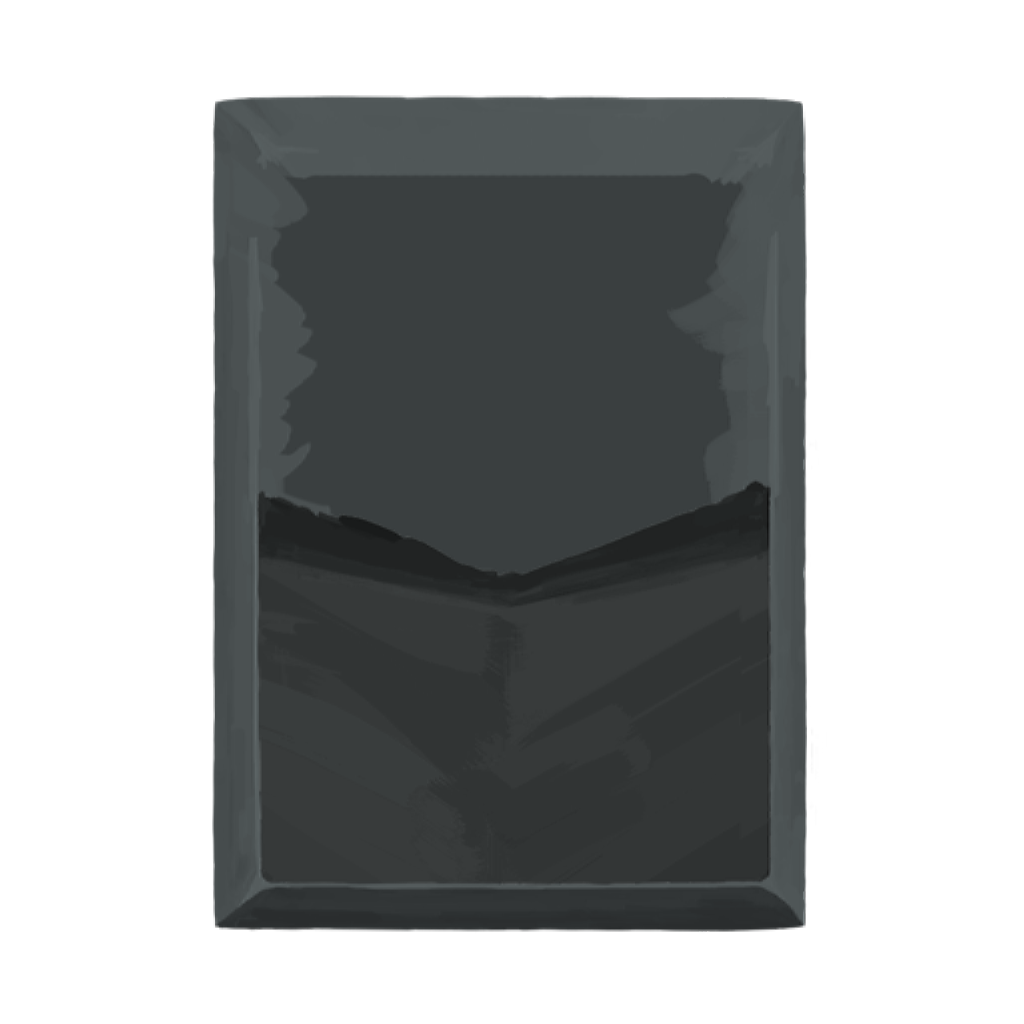
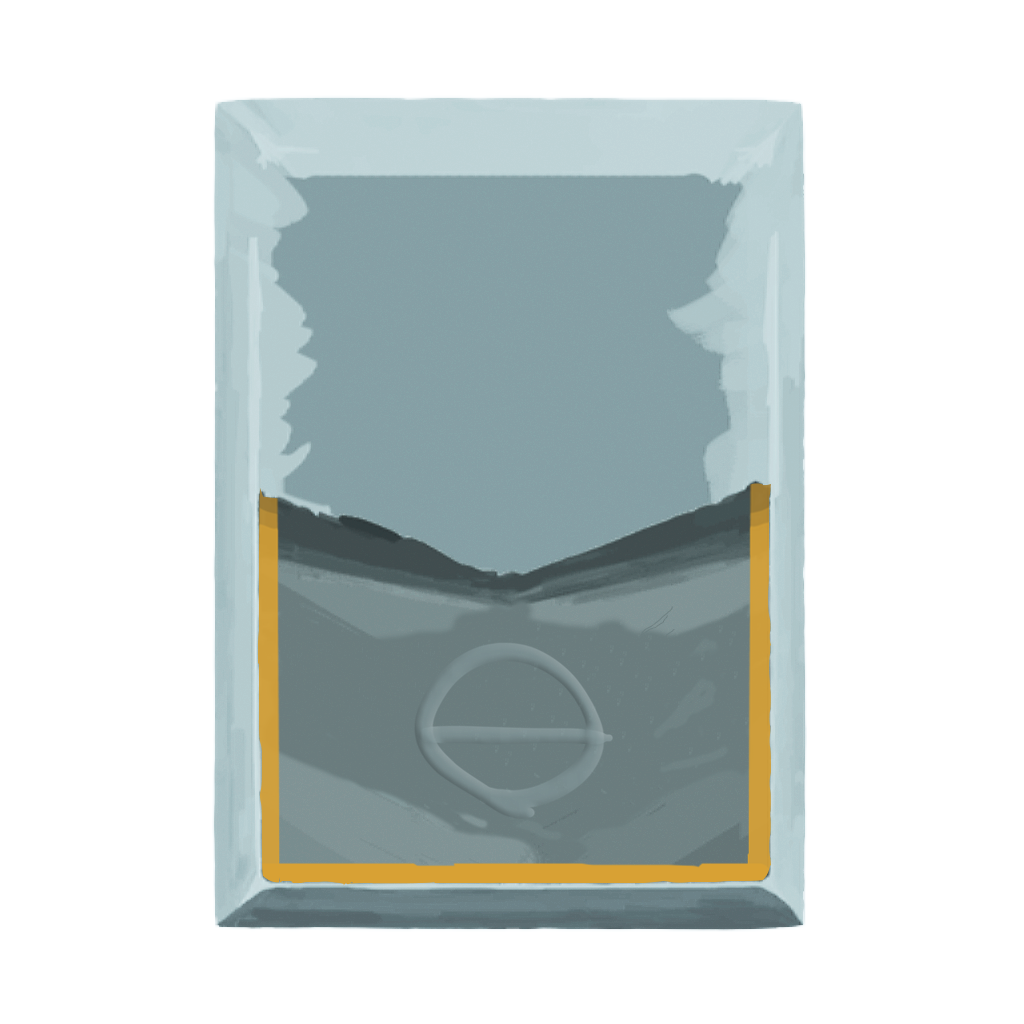
Implemented Overheal with placeholder art. The implementation could probably be improved, but it works so it's fine.

diff --git a/src/main/java/theAlchemist/powers/OverhealPower.java b/src/main/java/theAlchemist/powers/OverhealPower.java
@@ -1,0 +1,106 @@
+package theAlchemist.powers;
+
+import com.badlogic.gdx.graphics.Texture;
+import com.badlogic.gdx.graphics.g2d.TextureAtlas;
+import com.megacrit.cardcrawl.actions.common.ApplyPowerAction;
+import com.megacrit.cardcrawl.cards.AbstractCard;
+import com.megacrit.cardcrawl.core.AbstractCreature;
+import com.megacrit.cardcrawl.core.CardCrawlGame;
+import com.megacrit.cardcrawl.dungeons.AbstractDungeon;
+import com.megacrit.cardcrawl.localization.PowerStrings;
+import com.megacrit.cardcrawl.powers.AbstractPower;
+import com.megacrit.cardcrawl.powers.RegenPower;
+import theAlchemist.AlchemistMod;
+import theAlchemist.util.TextureLoader;
+
+import java.lang.reflect.Array;
+import java.util.ArrayList;
+import java.util.Stack;
+
+import static theAlchemist.AlchemistMod.*;
+
+public class OverhealPower extends AbstractPower
+{
+	public AbstractCreature source;
+	
+	public static final String POWER_ID = AlchemistMod.makeID("OverhealPower");
+	private static final PowerStrings powerStrings = CardCrawlGame.languagePack.getPowerStrings(POWER_ID);
+	public static final String NAME = powerStrings.NAME;
+	public static final String[] DESCRIPTIONS = powerStrings.DESCRIPTIONS;
+	
+	private Stack<AbstractCard> cardsTriggered;
+	
+	//IMAGES
+	private static final Texture TEXTURE_84 = TextureLoader.getTexture(makePowerPath("84/overheal_power.png"));
+	private static final Texture TEXTURE_32 = TextureLoader.getTexture(makePowerPath("32/overheal_power.png"));
+	
+	public OverhealPower(AbstractCreature owner)
+	{
+		this.name = NAME;
+		this.ID = POWER_ID;
+		
+		this.owner = owner;
+		
+		this.type = PowerType.BUFF;
+		this.isTurnBased = false;
+		
+		this.region128 = new TextureAtlas.AtlasRegion(TEXTURE_84, 0, 0, 84, 84);
+		this.region48 = new TextureAtlas.AtlasRegion(TEXTURE_32, 0, 0, 32, 32);
+		
+		updateDescription();
+		
+		cardsTriggered = new Stack<AbstractCard>();
+		cardsTriggered.push(getLastPlayedHealCard());
+	}
+	
+	@Override
+	public int onHeal(int amountHealed)
+	{
+		int regenToAdd = owner.currentHealth + amountHealed - owner.maxHealth;
+		
+		if(regenToAdd > 0 && lastHealWasCard())
+		{
+			flashWithoutSound();
+			AbstractDungeon.actionManager.addToBottom(new ApplyPowerAction(owner, owner, new RegenPower(owner, regenToAdd)));
+			
+			AbstractCard lastHeal = getLastPlayedHealCard();
+			if(lastHeal != null)
+				cardsTriggered.push(lastHeal);
+		}
+		
+		return amountHealed;
+		
+	}
+	
+	@Override
+	public void updateDescription()
+	{
+		this.description = DESCRIPTIONS[0];
+	}
+	
+	public AbstractCard getLastPlayedHealCard()
+	{
+		ArrayList<AbstractCard> cardsThisCombat = AbstractDungeon.actionManager.cardsPlayedThisCombat;
+		
+		AbstractCard lastPlayedHeal = null;
+		for(int i = cardsThisCombat.size() - 1; i >= 0; i--)
+			if(cardsThisCombat.get(i).hasTag(AbstractCard.CardTags.HEALING))
+			{
+				lastPlayedHeal = cardsThisCombat.get(i);
+				break;
+			}
+		
+		return lastPlayedHeal;
+	}
+	
+	public boolean lastHealWasCard()
+	{
+		AbstractCard lastPlayedHeal = getLastPlayedHealCard();
+		return cardsTriggered.peek() != lastPlayedHeal;
+	}
+	
+	public AbstractPower makeCopy()
+	{
+		return new OverhealPower(owner);
+	}
+}

diff --git a/src/main/java/theAlchemist/cards/Overheal.java b/src/main/java/theAlchemist/cards/Overheal.java
@@ -3,6 +3,7 @@ package theAlchemist.cards;
 import basemod.abstracts.CustomCard;
 import basemod.helpers.BaseModCardTags;
 import com.megacrit.cardcrawl.actions.AbstractGameAction;
+import com.megacrit.cardcrawl.actions.common.ApplyPowerAction;
 import com.megacrit.cardcrawl.actions.common.DamageAction;
 import com.megacrit.cardcrawl.cards.DamageInfo;
 import com.megacrit.cardcrawl.characters.AbstractPlayer;
@@ -12,40 +13,36 @@ import com.megacrit.cardcrawl.localization.CardStrings;
 import com.megacrit.cardcrawl.monsters.AbstractMonster;
 import theAlchemist.AlchemistMod;
 import theAlchemist.characters.TheAlchemist;
+import theAlchemist.powers.OverhealPower;
 
 import static theAlchemist.AlchemistMod.makeCardPath;
 
 public class Overheal extends CustomCard
 {// Template for a basic strike card
-	public static final String ID = AlchemistMod.makeID(AttackTemplate.class.getSimpleName());
-	public static final CardStrings cardStrings = CardCrawlGame.languagePack.getCardStrings(ID);
+	public static final String ID = AlchemistMod.makeID(Overheal.class.getSimpleName());
+	public static final CardStrings CARD_STRINGS = CardCrawlGame.languagePack.getCardStrings(ID);
 
 	public static final String IMG = makeCardPath("Overheal.png");
-	public static final String NAME = cardStrings.NAME;
-	public static final String DESCRIPTION = cardStrings.DESCRIPTION;
+	public static final String NAME = CARD_STRINGS.NAME;
+	public static final String DESCRIPTION = CARD_STRINGS.DESCRIPTION;
+	public static final String UPGRADE_DESCRIPTION = CARD_STRINGS.DESCRIPTION;
 
 	private static final CardRarity RARITY = CardRarity.UNCOMMON;
-	private static final CardTarget TARGET = CardTarget.ENEMY;
-	private static final CardType TYPE = CardType.ATTACK;
+	private static final CardTarget TARGET = CardTarget.SELF;
+	private static final CardType TYPE = CardType.POWER;
 	private static final CardColor COLOR = TheAlchemist.Enums.COLOR_PLATINUM;
 
 	private static final int COST = 2;
-	private static final int DAMAGE = 6;
-	private static final int UPGRADE_PLUS_DMG = 3; //upgrade
 
 	public Overheal()
 	{
 		super(ID, NAME, IMG, COST, DESCRIPTION, TYPE, COLOR, RARITY, TARGET);
-		
-		baseDamage = DAMAGE;
-		this.tags.add(BaseModCardTags.BASIC_STRIKE);
-		this.tags.add(CardTags.STARTER_STRIKE);
 	}
 	
 	@Override
 	public void use(AbstractPlayer player, AbstractMonster monster)
 	{
-		AbstractDungeon.actionManager.addToBottom(new DamageAction(monster, new DamageInfo(player, damage, damageTypeForTurn), AbstractGameAction.AttackEffect.SLASH_HORIZONTAL));
+		AbstractDungeon.actionManager.addToBottom(new ApplyPowerAction(player, player, new OverhealPower(player)));
 	}
 	
 	@Override
@@ -54,7 +51,8 @@ public class Overheal extends CustomCard
 		if(!upgraded)
 		{
 			upgradeName();
-			upgradeDamage(UPGRADE_PLUS_DMG);
+			this.isInnate = true;
+			this.rawDescription = UPGRADE_DESCRIPTION + DESCRIPTION;
 			initializeDescription();
 		}
 	}
